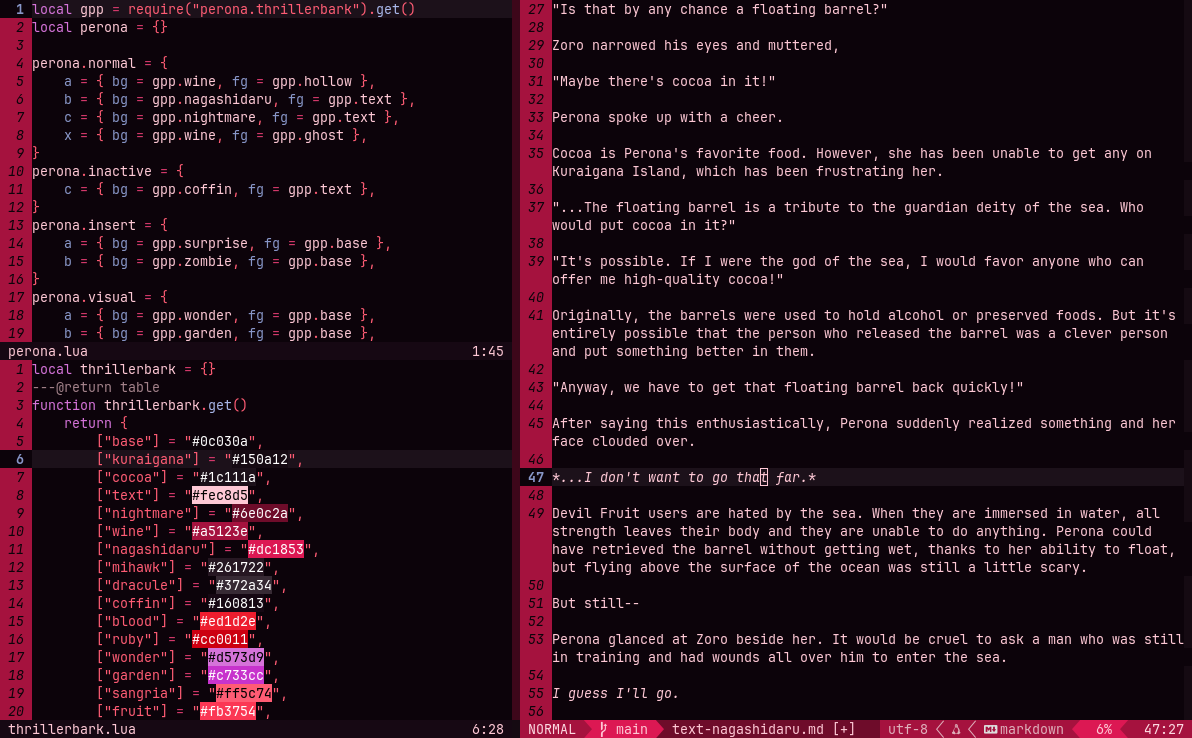
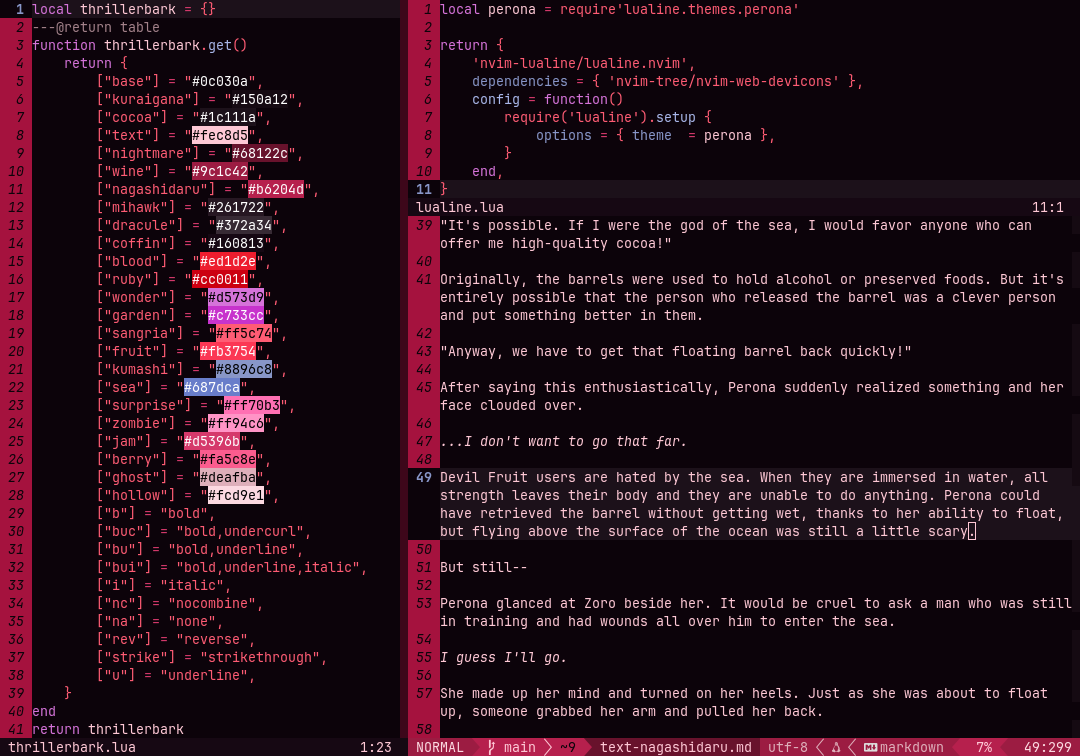
desaturate accents

Changed region(s): [[0.3361, 0.0, 1.0, 1.0], [0.0, 0.0, 0.3361, 0.9973]]

diff --git a/README.md b/README.md
@@ -10,7 +10,7 @@ a colorscheme for neovim inspired by ghost princess perona from *one piece*. bui
 ## palette
 
 + base = `#0c030a` `#150a12` `#1c111a`
-+ accent = `#6e0c2a` `#a5123e` `#dc1853`
++ accent = `#68122c` `#9c1c42` `#b6204d`
 + text = `#fec8d5` `#a28189` `#644f54`
 + black = `#261722` `#372a34` `#160813`
 + red = `#ed1d2e` `#ff4c5b` `#cc0011`
